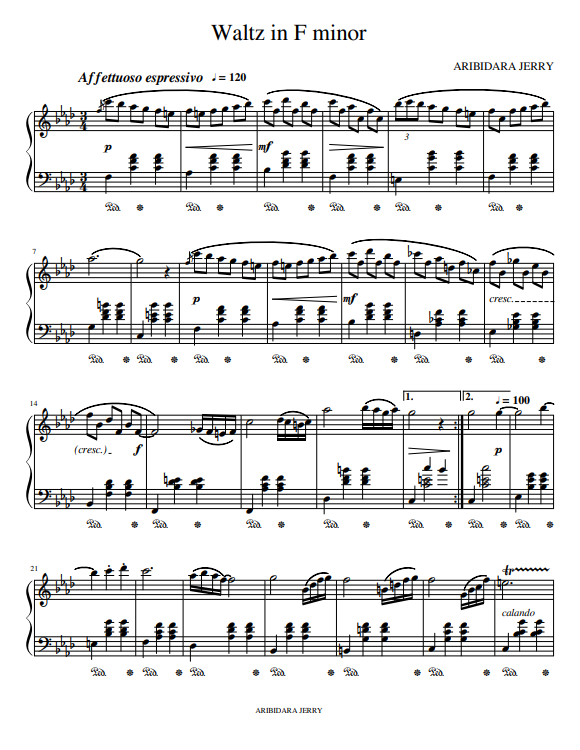
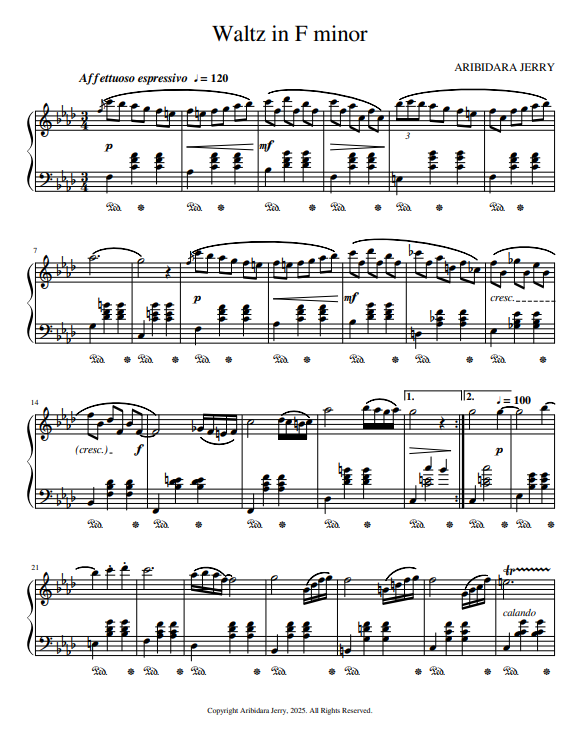
new update

diff --git a/index.html b/index.html
@@ -3,9 +3,8 @@
 <head>
     <meta http-equiv="content-type" content="text/html;charset=UTF-8" />
     <meta name="keywords" content="Aribidara Jerry" />
-    <meta name="description" content="Aribidara Jerry is a Musician, Teacher, Composer, Instrumentalist...">
-    <meta name="viewport" content="width=device-width, initial-scale=1.0">
-    <meta property="og:image" content="img/jerry8.jpg" />
+    <meta name="description" content="Aribidara Jerry, a Musician with interest in diverse genres (Gospel, contemporary, classical, jazz), Teacher, Composer, Instrumentalist...">
+    <meta name="viewport" content="width=device-width, initial-scale=1.0, maximum-scale=1.0, user-scalable=no">
     <title>Aribidara Jerry - Portfolio</title>
     <link rel="stylesheet" href="index.css" />
     <link rel="stylesheet" href="css/media-queries.css" />
@@ -191,30 +190,6 @@
                         </div>
                     </div>
                     <div>
-                        <img src="img/waltz-in-c-sharp.jpg" alt="Score image"
-                        >
-                        <div class="links">
-                            <!-- <a href="" target="_blank">
-                                <i class="fa-brands fa-youtube"></i>
-                            </a> -->
-                            <a href="https://www.sheetmusicdirect.com/en-US/se/ID_No/1591245/Product.aspx" target="_blank">
-                                <i class="fa-solid fa-external-link"></i>
-                            </a>
-                        </div>
-                    </div>
-                    <div>
-                        <img src="img/gavotte.jpg" alt="Score image"
-                        >
-                        <div class="links">
-                            <!-- <a href="" target="_blank">
-                                <i class="fa-brands fa-youtube"></i>
-                            </a> -->
-                            <a href="https://www.sheetmusicdirect.com/en-US/se/ID_No/1591225/Product.aspx" target="_blank">
-                                <i class="fa-solid fa-external-link"></i>
-                            </a>
-                        </div>
-                    </div>
-                    <div>
                         <img src="img/moment.jpg" alt="Score image"
                         >
                         <div class="links">
@@ -234,6 +209,30 @@
                                 <i class="fa-brands fa-youtube"></i>
                             </a> -->
                             <a href="https://www.sheetmusicdirect.com/en-US/se/ID_No/1521403/Product.aspx" target="_blank">
+                                <i class="fa-solid fa-external-link"></i>
+                            </a>
+                        </div>
+                    </div>
+                    <div>
+                        <img src="img/waltz-in-c-sharp.jpg" alt="Score image"
+                        >
+                        <div class="links">
+                            <!-- <a href="" target="_blank">
+                                <i class="fa-brands fa-youtube"></i>
+                            </a> -->
+                            <a href="https://www.sheetmusicdirect.com/en-US/se/ID_No/1591245/Product.aspx" target="_blank">
+                                <i class="fa-solid fa-external-link"></i>
+                            </a>
+                        </div>
+                    </div>
+                    <div>
+                        <img src="img/gavotte.jpg" alt="Score image"
+                        >
+                        <div class="links">
+                            <!-- <a href="" target="_blank">
+                                <i class="fa-brands fa-youtube"></i>
+                            </a> -->
+                            <a href="https://www.sheetmusicdirect.com/en-US/se/ID_No/1591225/Product.aspx" target="_blank">
                                 <i class="fa-solid fa-external-link"></i>
                             </a>
                         </div>
@@ -276,7 +275,7 @@
                     </div>
                 </div>
                 <p class="content">
-                    You will find more of my documented composition on <a href="https://www.sheetmusicdirect.com/en-US/Search.aspx?query=Aribidara%2BJerry" target="_blank"><cite><i>SHEETMUSICDIRECT</i></cite></a>.
+                    You will find more of my documented composition on <a href="https://www.sheetmusicdirect.com/en-US/Search.aspx?query=Aribidara%2BJerry" target="_blank"><cite><i>SHEETMUSICDIRECT</i></cite></a>. Please note that I have previously published works under the name A.T.M.F. Jerry. Moving forward, all works will be attributed to Aribidara Jerry for consistency. Both names refer to the same creator.
                 </p>
             </div>
         </article>
@@ -333,7 +332,7 @@
     </section>
     <footer>
         Copyright &copy;
-        <p></p> A.T.M.F. JERRY
+        <p></p> ARIBIDARA JERRY
     </footer>
 </body>
 </html>

diff --git a/index.css b/index.css
@@ -6,6 +6,9 @@
     font-family: Monospace;
     scroll-behavior: smooth;
 }
+html {
+    -webkit-text-size-adjust: 100%;
+}
 ::-webkit-scrollbar {
     display: none;
 }
